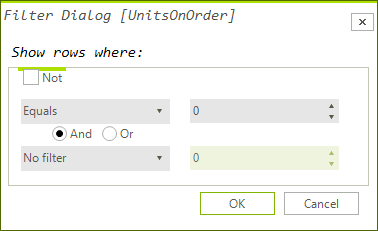
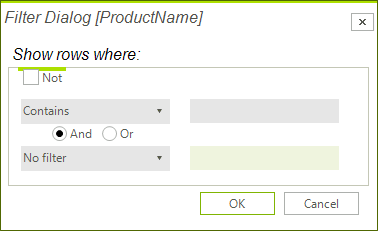
GridView - CompositeDataFilterDialog

diff --git a/gridview/filtering/custom-filter-dialog.md b/gridview/filtering/custom-filter-dialog.md
@@ -11,9 +11,52 @@ position: 9
 
 ## Customizing composite filter dialog
 
-When you select an item from the "Available Filter" menu, a __CompositeFilterForm__ is displayed. The __CreateCompositeFilterDialog__ event is fired before the __CompositeFilterForm__ is created. It allows you to create the default dialog and customize it or initialize your own implementation of the composite filter dialog.
+When you select the *Custom* item from the filter menu (*Available Filter* menu in Excel-like filtering), an appropriate dialog for creating a custom filter is shown. 
+
+>caption Figure 1: Custom filter
+
+![gridview-filtering-composite-filter-dialog 003](images/gridview-filtering-composite-filter-dialog003.png)
+
+Since *R1 2017 SP*, a **CompositeDataFilterForm** is shown. This dialog uses a [RadDataFilter]({%slug winforms/datafilter/overview%}) allowing the user to compose a complex filter expression.
+
+>caption Figure 2: CompositeDataFilterForm
+
+![gridview-filtering-composite-filter-dialog 002](images/gridview-filtering-composite-filter-dialog002.png)
+
+ In the previous versions a __CompositeFilterForm__ is displayed. The __CreateCompositeFilterDialog__ event is fired before the custom filter dialog is created. It allows you to create the default dialog and customize it or initialize your own implementation of the composite filter dialog.
+
+#### Specify default filter dialog
+
+{{source=..\SamplesCS\GridView\Filtering\Filtering.cs region=DefaultFilterDialog}} 
+{{source=..\SamplesVB\GridView\Filtering\Filtering.vb region=DefaultFilterDialog}} 
+
+````C#
+Font f = new Font("Arial", 12, FontStyle.Italic);
+private void radGridView1_CreateCompositeFilterDialog(object sender, GridViewCreateCompositeFilterDialogEventArgs e)
+{
+    CompositeFilterForm filterDialog = new CompositeFilterForm();
+    filterDialog.Font = f;
+    e.Dialog = filterDialog;
+}
+
+````
+````VB.NET
+Private f As New Font("Arial", 12, FontStyle.Italic)
+Private Sub radGridView1_CreateCompositeFilterDialog(sender As Object, e As GridViewCreateCompositeFilterDialogEventArgs)
+    Dim filterDialog As New CompositeFilterForm()
+    filterDialog.Font = f
+    e.Dialog = filterDialog
+End Sub
+
+````
+
+{{endregion}} 
+
+
+>caption Figure 3: CompositeFilterForm
 
 ![gridview-filtering-composite-filter-dialog 001](images/gridview-filtering-composite-filter-dialog001.png)
+
 # See Also
 * [Basic Filtering]({%slug winforms/gridview/filtering/basic-filtering%})
 

diff --git a/datafilter/datafilter-dialog.md b/datafilter/datafilter-dialog.md
@@ -2,7 +2,7 @@
 title: DataFilter Dialog
 page_title: DataFilter Dialog | RadDataFilter
 description: This article show what RadDataFilter represents and its key features. 
-slug: winforms/datafilter/overview
+slug: winforms/datafilter/datafilter-dialog
 tags: data, filter
 published: True
 position: 5
